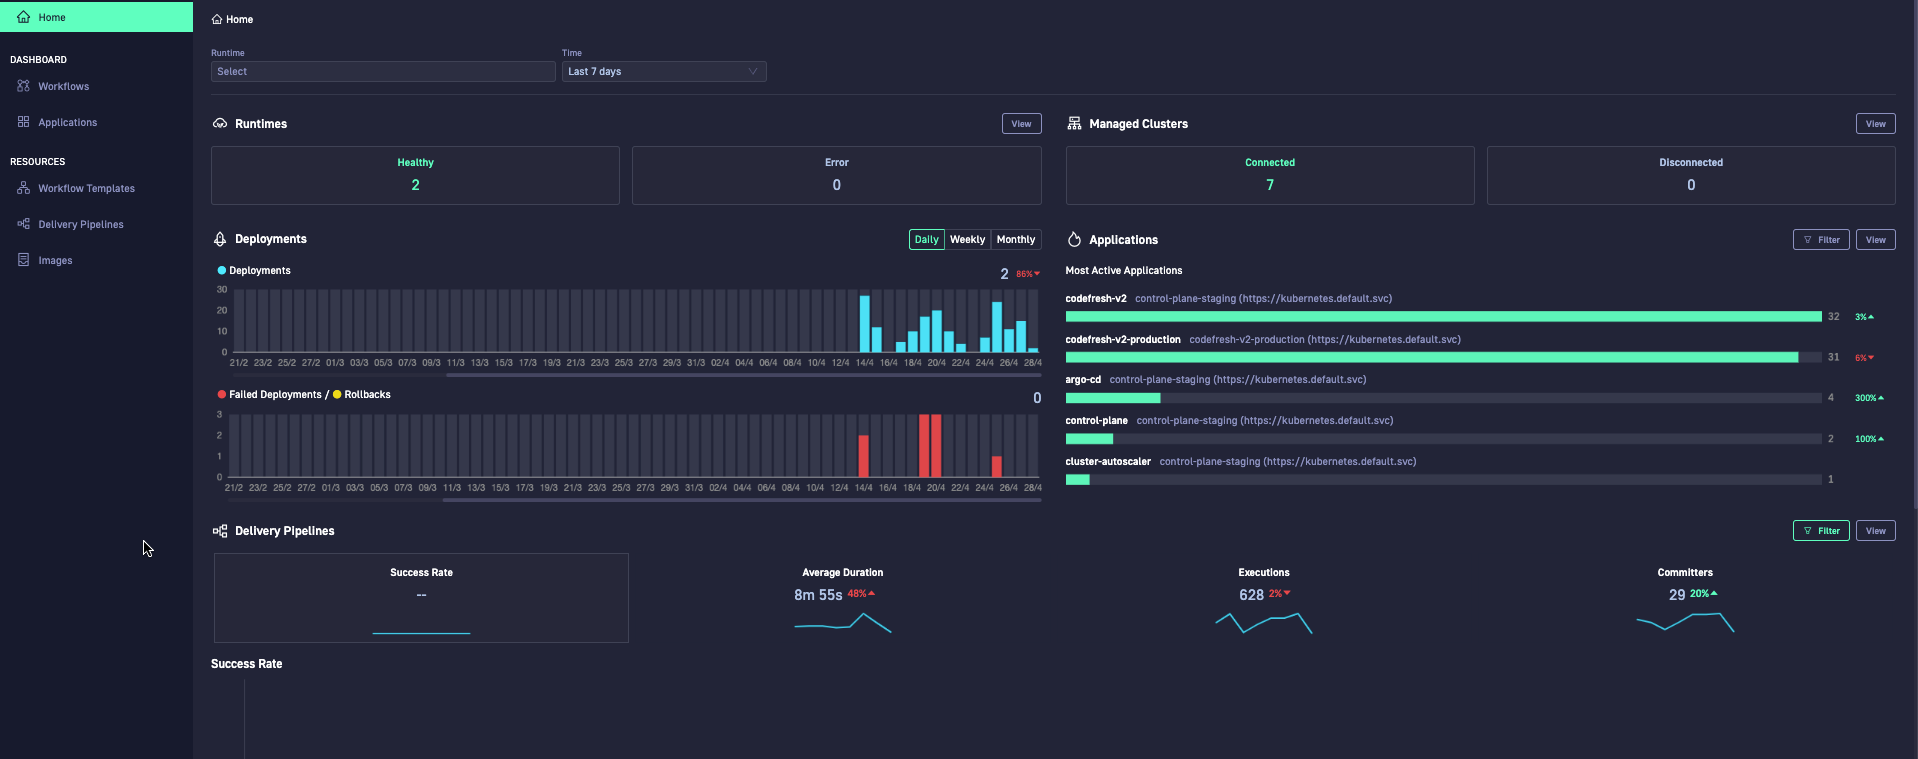
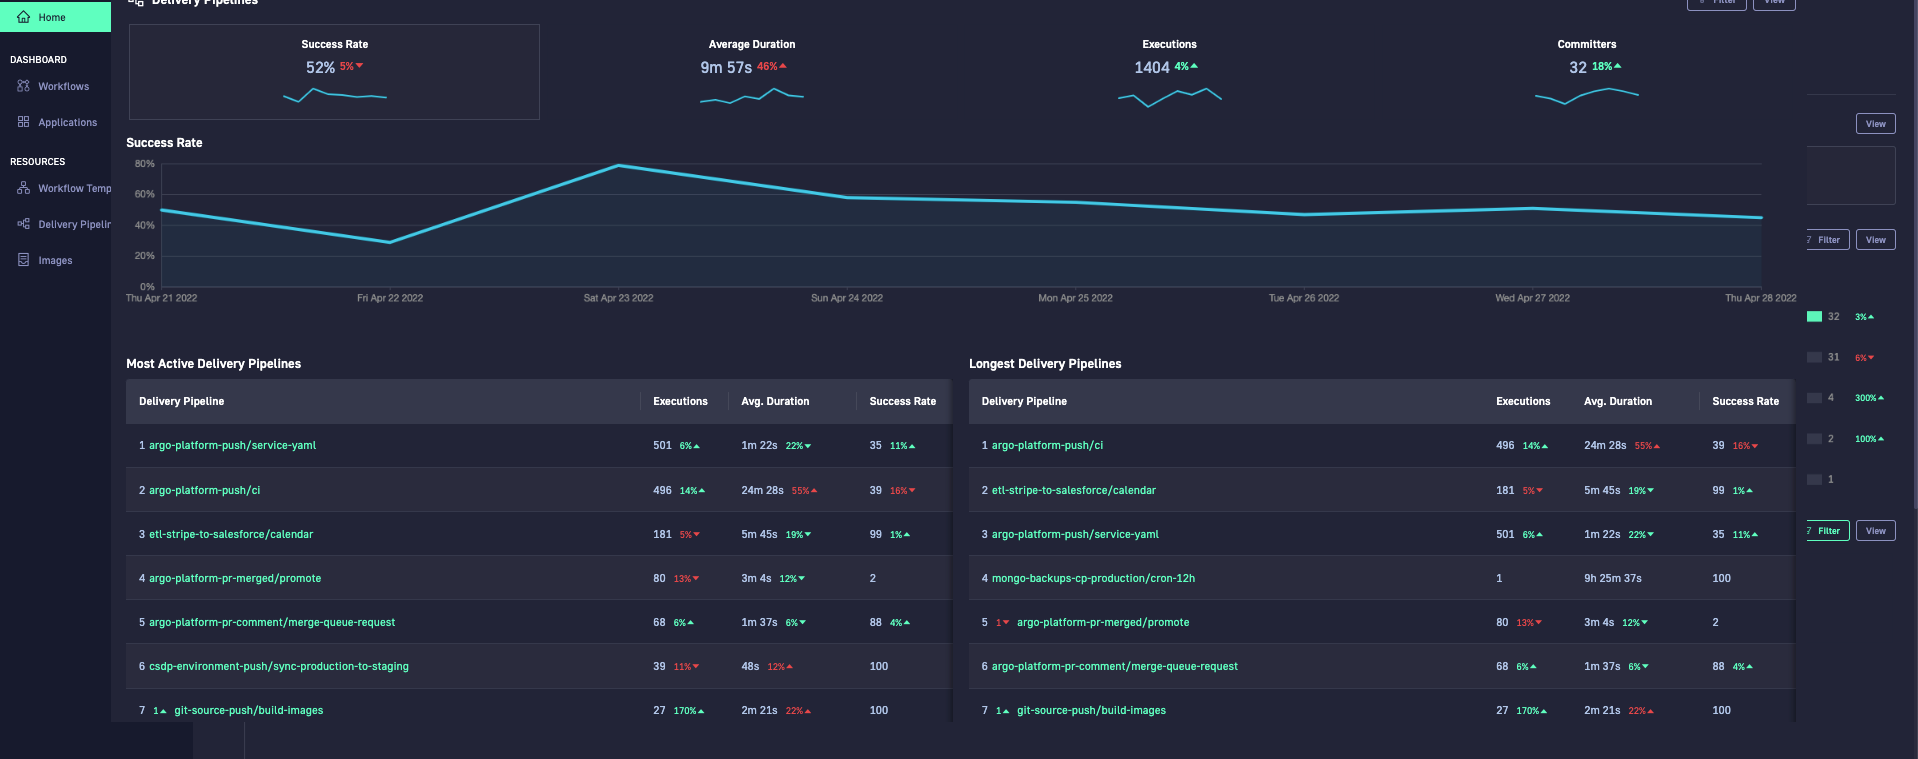
Update what's new

diff --git a/_docs/whats-new/whats-new.md b/_docs/whats-new/whats-new.md
@@ -1,5 +1,5 @@
 ---
-title: "What's new in CSDP?"
+title: "What's new in Codefresh?"
 description: ""
 group: whats-new
 redirect_from:
@@ -13,7 +13,7 @@ Since the launch, we have continued to work on and grow Codefresh.
 
 ### Features and enhancements 
 
-#### Kubernetes cluster server version
+#### Kubernetes version runtime support
 We now support the latest Kubernetes server versions, 1.22 and 1.23. 
 
 #### Ingress controllers
@@ -27,14 +27,14 @@ All ingress controllers must be configured to report their status.
 For details, see [Ingress controller requirements]({{site.baseurl}}/docs/runtime/requirements/#ingress-controller).
 
 
-#### External cluster support
-Argo CD can manage external clusters without Argo CD installed on them. Now you have the same functionality in Codefresh, and can add, view, and manage remote clusters.  
+#### Argo CD managed cluster support
+Argo CD can manage clusters without Argo CD installed on them. Now you have the same functionality in Codefresh, and can add, view, and manage remote clusters.  
 Admins can add an external cluster to a Codefresh runtime, and register it automatically as a managed cluster. From that point on, you have complete visibility into health and sync status, and options to manage them, including installing Argo Rollouts.  
 
 With managed clusters in Codefresh, you get:
 * Streamlined management: All cluster- and cluster-component level operations are managed through the runtime, in a centralized location. You can install new and uninstall existing components, and remove the cluster from the runtime's managed list.
 * Seamless upgrades: Upgrades to runtimes or to runtime components in the local cluster automatically upgrades those in managed clusters as well.
-* Integration with dashboards: Applications dashboards reflect deployment information for applications in all managed clusters.
+* Integration with dashboards: Applications dashboards reflect deployment information for applications in all managed clusters. Argo CD Rollouts are installed, application rollouts are also reported to the dashboard. 
 
 For details, see [Managed clusters]({{site.baseurl}}/docs/runtime/managed-cluster).
 
@@ -46,7 +46,13 @@ Add new clusters to or remove existing clusters from runtime management.
 For details, see [Topology view for runtimes]({{site.baseurl}}/docs/runtime/monitor-manage-runtimes/#topology-view).
 
 #### Analytics dashboard
-In addition to the Delivery Pipelines, the Analytics dashboard includes Runtimes, Managed Clusters, Deployments, and Applications, providing you a complete picture with the key facts and insights.  
+In addition to the Delivery Pipelines, the Analytics dashboard shows Runtimes, Managed Clusters, Deployments, and Applications, to give you the complete CI/CD picture with key facts and insights.  
+
+**Usability enhancements**  
+  * Global filters are now located at the top of the dashboard.  
+  * Resource-specific filters are available for that resource. 
+  * A convenient View button takes you to the dedicated resource view for additional analysis.
+
 
 {% include 
 	image.html 
@@ -58,41 +64,13 @@ In addition to the Delivery Pipelines, the Analytics dashboard includes Runtimes
    max-width="30%" 
   %}
 
-When you look at Deployments, the tooltip for the number of deployments shows the comparison in percentage for the preceding time range.
-
-{% include 
-   image.html 
-	lightbox="true" 
-	file="/images/whats-new/rel-notes-analytics-deployments.png" 
-	url="/images/whats-new/rel-notes-analytics-deployments.png" 
-	alt="Analytics dashboard: Comparative metrics for deployments" 
-	caption="Analytics dashboard: Comparative metrics for deployments"
-   max-width="30%" 
-  %}
-
-
-* **Usability enhancements**  
-
-  * Global filters are now located right at the top of the dashboard.  
-  * Resource-specific filters are available for that resource. 
-  * A convenient View button takes you to the dedicated resource view for additional analysis.
-
-  {% include 
-	image.html 
-	lightbox="true" 
-	file="/images/whats-new/rel-notes-analytics.png" 
-	url="/images/whats-new/rel-notes-analytics.png" 
-	alt="Analytics dashboard: Usability enhancements" 
-	caption="Analytics dashboard: Usability enhancements"
-   max-width="30%" 
-  %}
-
 
 
 
 #### Applications dashboard enhancements
-The Applications dashboard displays the individual deployments across your enterprise.  Here are the main enhancements:
-* **Filters**  
+The Applications dashboard displays the individual deployments across your enterprise.  Here are the main enhancements:  
+
+**Application inventory and status filters**  
   
   The health status snapshot in the Applications dashboard works also as a quick filter. Selecting a status filters applications by that status.    
   Filter criteria that match child applications automatically expands the parent application to show the child applications.
@@ -107,7 +85,7 @@ The Applications dashboard displays the individual deployments across your enter
   max-width="30%" 
   %}
 
-* **Rollouts**  
+**Rollouts**  
 
   Intuitive visualization with the option to open the Images view in a new browser window.  
 
@@ -121,11 +99,11 @@ The Applications dashboard displays the individual deployments across your enter
   max-width="30%" 
   %}
 
-* **Git committers**  
+**Git committers**  
   Selecting an avatar shows all commits made.  
 
 
-* **Current state of cluster resources**  
+**Current state of cluster resources**  
   Hierarchical representation of the resources in the cluster where the application is deployed in the Current State.
 
   {% include 
@@ -151,8 +129,8 @@ Codefresh provides full-fledged management for the Workflow Template resource, f
   max-width="30%" 
   %}
 
-* **Create Workflow Templates**  
-  Create Workflow Templates in three steps. Start by selecting one from the Codefresh Hub for Argo, or start with a blank template form. Customize it. And then submit.  
+**Create, optimize, and test Workflow Templates**  
+  Create Workflow Templates in three steps. Start by selecting one from the Codefresh Hub for Argo, or start with a blank template form. Customi ze it. And then submit.  
 
   {% include 
 	image.html 
@@ -164,9 +142,8 @@ Codefresh provides full-fledged management for the Workflow Template resource, f
   max-width="30%" 
   %}
 
-* **Workflow Template Manifests, Workflows and Pipelines**  
-  Select a Workflow Template, and work with the options in the Manifest tab to update and optimize it. Any change to the Git State manifest is immediately displayed with the before and after change versions.  
-  The Workflows and Delivery Pipelines tabs associated with the selected Workflow Template are displayed in the relevant tabs, giving you all the information in one location.  
+  You can then select a Workflow Template, and work with the options in the Manifest tab to update and optimize it. Any change to the Git State manifest is immediately displayed with the before and after change versions.  
+  The Workflows and Delivery Pipelines tabs associated with the selected Workflow Template are displayed in the respective tabs, giving you all the information in the same location.  
  
   {% include 
 	image.html 
@@ -177,9 +154,8 @@ Codefresh provides full-fledged management for the Workflow Template resource, f
 	caption="Workflow Template: Manifest, Workflow and Pipeline tabs"
   max-width="30%" 
   %}
-
-* **Workflow Templates sandbox**  
-  Test your changes to any Workflow Template without having to first commit the changes.  
+  
+  Use the **Run** option to test changes to a Workflow Template without having to first commit the changes.  
   Simply run the Workflow Template. Scroll through previous iterations if any, view arguments and values, and change, add, or delete them. 
   
 {% include 
@@ -192,9 +168,9 @@ Codefresh provides full-fledged management for the Workflow Template resource, f
   max-width="30%" 
   %}
 
-* **Renaming the Workflow Template**  
-  After creating a Workflow Template you can rename it by selecting a Workflow Template and clicking the **Rename** option.  
-  The new name must be unique to the cluster. 
+**Rename Workflow Template**  
+  After creating a Workflow Template, you can rename it by selecting a Workflow Template and clicking the **Rename** option.  
+  The new name must be unique within the cluster. 
 
   {% include 
 	image.html 
@@ -223,9 +199,9 @@ Toggle between Form and YAML views as you define additional settings for the app
 
 
 #### Delivery Pipeline flows 
-The Delivery Pipeline flow has several usability and functionality enhancements.
+The Delivery Pipeline flow features several usability and functionality enhancements.
 
-* **Event payload, manifests, metadata for workflow steps**  
+**Event payload, manifests, metadata for workflow steps**  
 
   Once a workflow is submitted for a Delivery Pipeline, the Workflows tab visualizes the connections between the steps in the workflow.  
   A significant functionality enhancement is the capability to display data for each step in the workflow. 
@@ -257,9 +233,9 @@ The Delivery Pipeline flow has several usability and functionality enhancements.
   max-width="30%" 
 %}
 
-* **Rename trigger resource** 
+**Rename trigger resource** 
 
-  Similar to Workflow Templates, you can now rename the trigger name of a Delivery Pipeline.. The trigger name must be unique across all the sensors associated with that pipeline. Note that the Rename option is enabled only when there are no pending commits. The sensor name cannot be changed. 
+  Similar to Workflow Templates, you can now rename the trigger name of a Delivery Pipeline.. The trigger name must be unique across all the sensors associated with that pipeline. The sensor name cannot be changed. 
 
 {% include 
 	image.html 
@@ -271,7 +247,7 @@ The Delivery Pipeline flow has several usability and functionality enhancements.
   max-width="30%" 
 %}
 
-* **Git repo selection**  
+**Git repo selection for commits**  
 
   A dropdown list allows you to select one or more Git repos in the Trigger Conditions tab. Start typing, and use autocomplete to view and select from the available Git repos.
 
@@ -286,17 +262,17 @@ The Delivery Pipeline flow has several usability and functionality enhancements.
 %}
 
 
-* **Errors/warning in manifests synced with the line number in manifest**
+**Errors/warning in manifests synced with the line number in manifest**
   Clicking the line number next to an error or a warning changes focus to the line in the manifest file with the error or warning.
 
 
 #### Workflow dashboard enhancements
 
-* **Link from workflows to their pipelines**  
+**Link from workflows to their pipelines**  
 
   Workflow names in the dashboard are clickable links. Clicking a workflow name takes you directly to the pipeline associated with that workflow.  tab for that pipeline.
 
-* **New status for active workflows without events**  
+**New status for active workflows without events**  
 
 Identify workflows that are active but do not have any execution data with the new status filter in the Workflows dashboard. Filtering by Status ‘Unknown’ shows workflows without events for the last hour.
 
